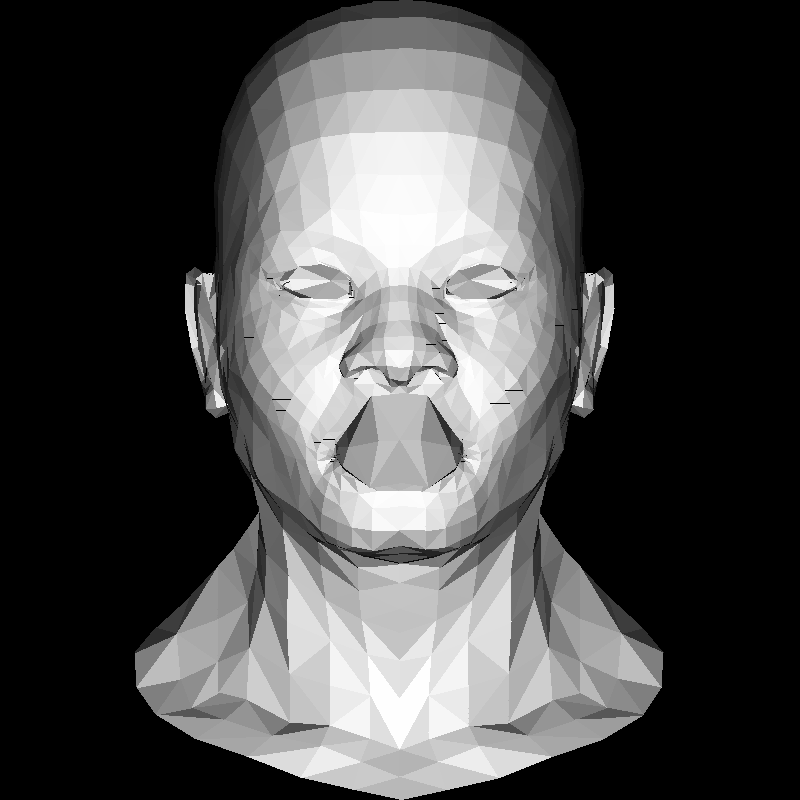
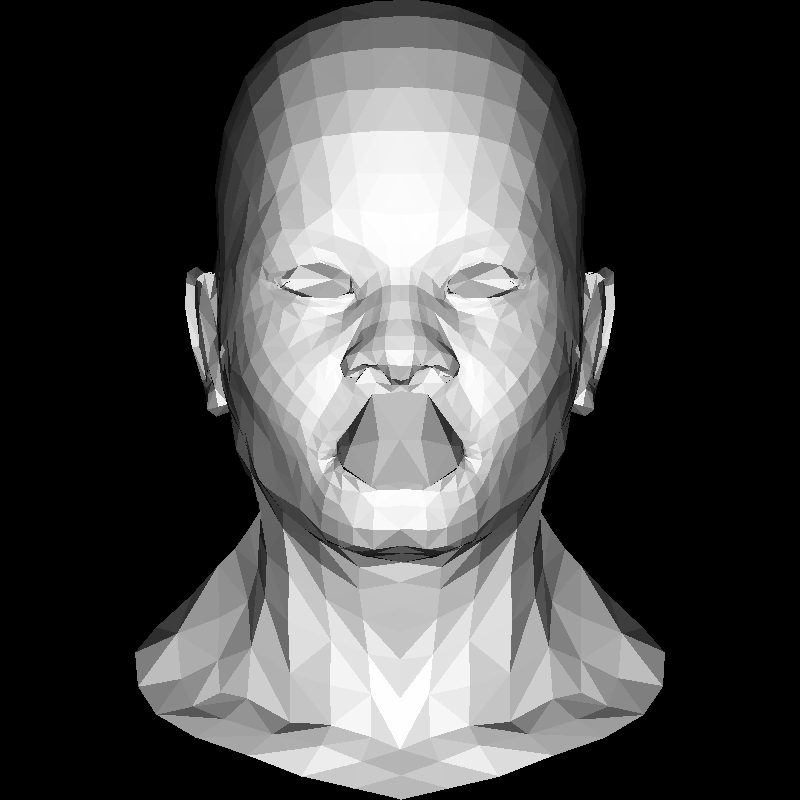
Fix bug in line rendering.

diff --git a/render.py b/render.py
@@ -4,18 +4,22 @@ import random
 from PIL import Image
 from model import Model
 
+WIDTH = 800
+HEIGHT = 800
 
 def transpose(point):
     return point[1], point[0]
 
 def draw_point(image, point, color):
-    new_point = int(point[0]), int(point[1])
+    x = min(int(point[0]), WIDTH-1)
+    y = min(int(point[1]), HEIGHT-1)
+    new_point = x, y
     image.putpixel(new_point, color)
 
 def line_to_pixels(start, end):
     pixels = []
-    start = int(start[0]), int(start[1])
-    end = int(end[0]), int(end[1])
+    start = round((start[0])), round((start[1]))
+    end = round((end[0])), round((end[1]))
     steep = False;
     if abs(start[0] - end[0]) < abs(start[1] - end[1]):
         steep = True
@@ -28,12 +32,16 @@ def line_to_pixels(start, end):
 
     x0, y0 = start
     x1, y1 = end
-    for x in range(x0, x1):
-        step = (x-x0)/(x1-x0)
-        y = int(y0*(1-step) + y1*step)
-        if steep:
-            x, y = transpose((x,y))
-        pixels.append((x,y))
+    # If line starts and stops on the same point, just return that point
+    if x0 == x1:
+        pixels.append((x0,y0))
+    else:
+        for x in range(x0, x1+1):
+            step = (x-x0)/(x1-x0)
+            y = round((y0*(1-step) + y1*step))
+            if steep:
+                x, y = transpose((x,y))
+            pixels.append((x,y))
     return pixels
 
 def draw_line(image, start, end, color):
@@ -105,16 +113,13 @@ def world_to_screen(face, width, height):
 
 def draw_model_wireframe():
     model_file = 'models/african_head.obj'
-    width = 500
-    height = 500
+    width = WIDTH
+    height = HEIGHT
     color = (255, 255, 255)
     out_file_name = 'out_render.png'
 
     if len(sys.argv) > 1:
         model_file = sys.argv[1]
-    if len(sys.argv) > 3:
-        width = int(sys.argv[2])
-        height = int(sys.argv[3])
 
     image = Image.new('RGB', (width, height))
     model = Model(model_file, width, height)
@@ -127,6 +132,7 @@ def draw_model_wireframe():
         if intensity > 0:
             color = (int(intensity*255), int(intensity*255), int(intensity*255))
             fill_triangle(image, screen_face, color)
+            # draw_triangle(image, screen_face, (color[0], 0, 0))
 
     image = image.transpose(Image.FLIP_TOP_BOTTOM)
     image.save(out_file_name)
